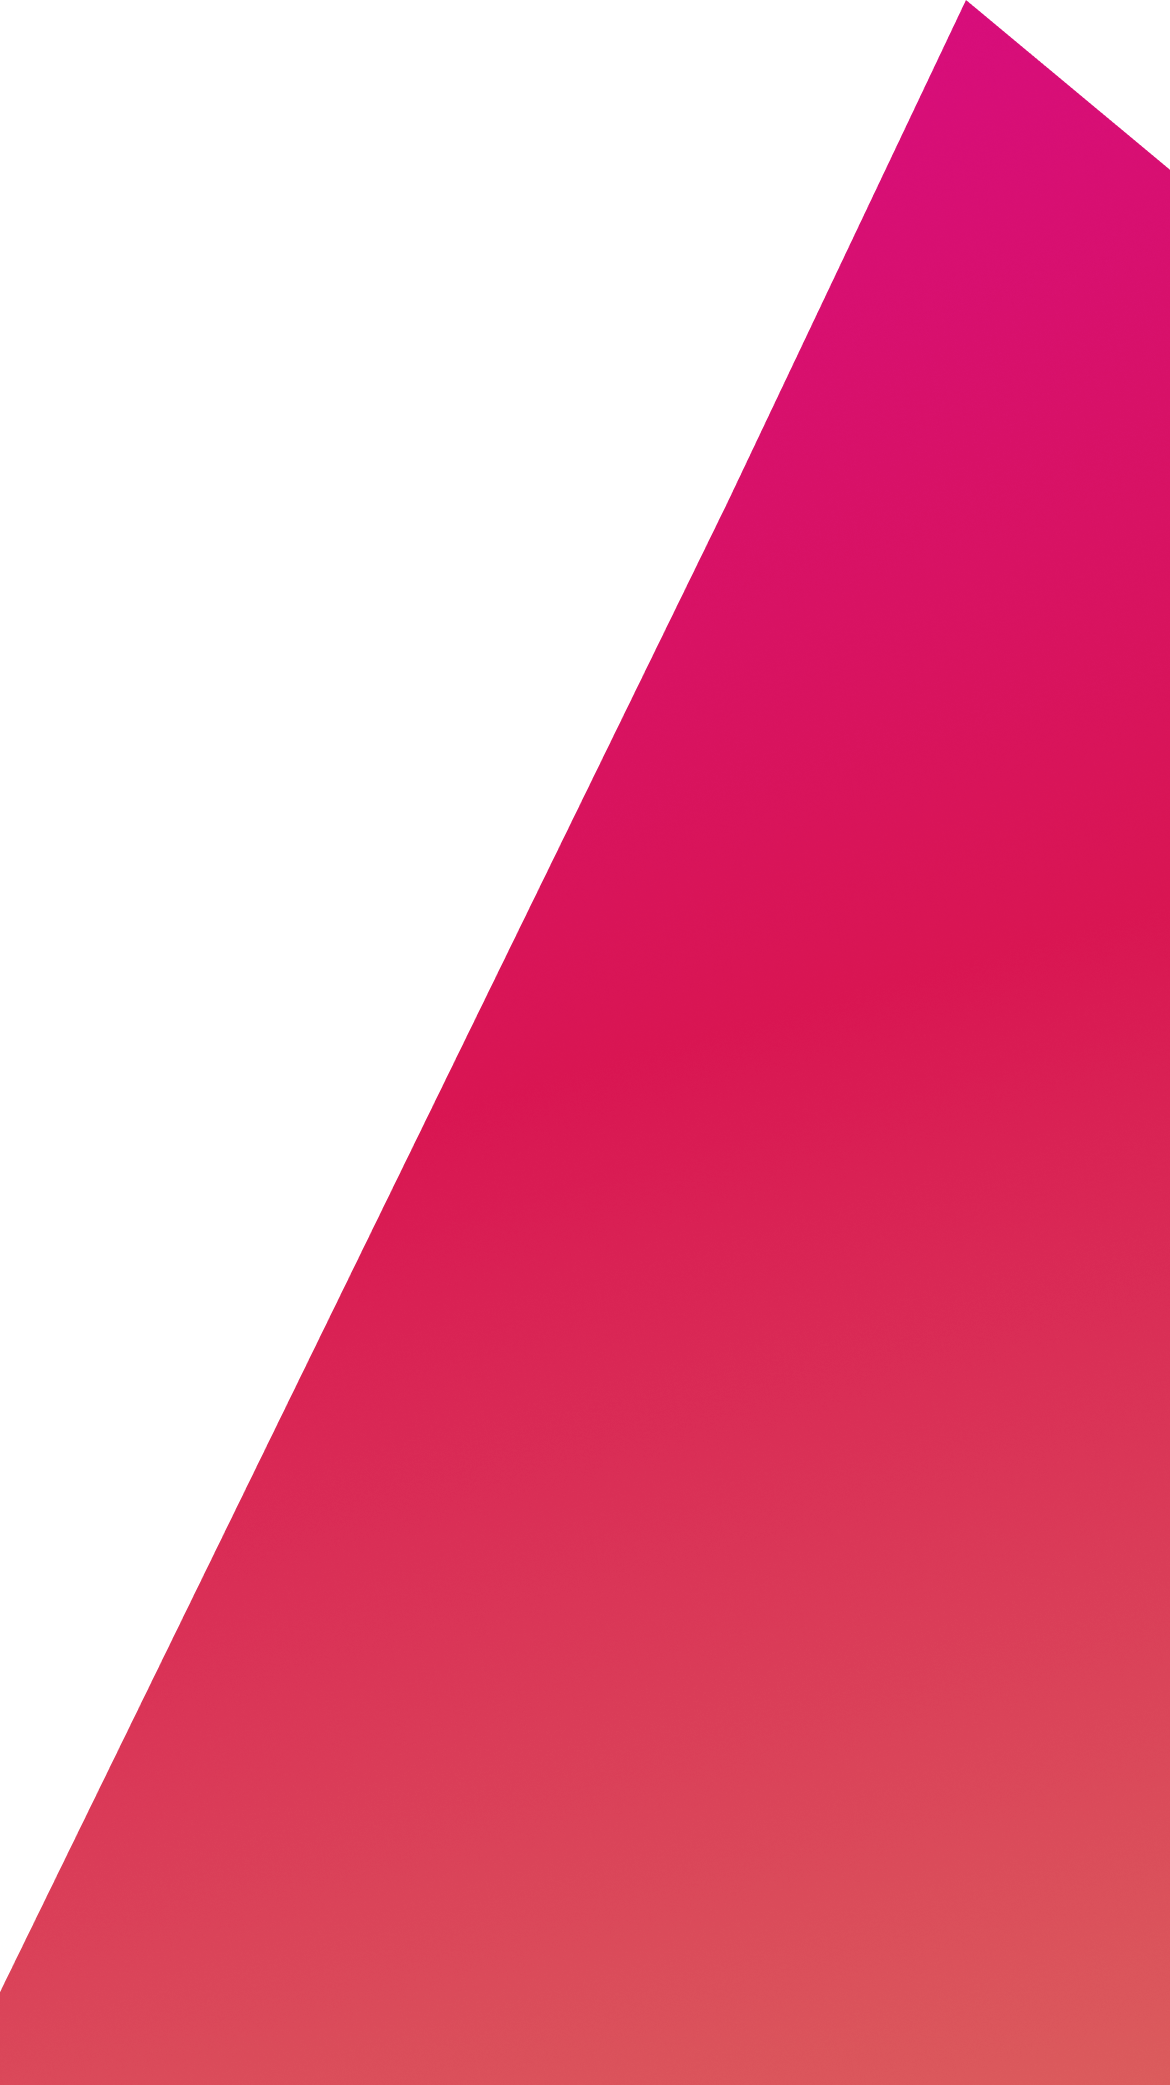
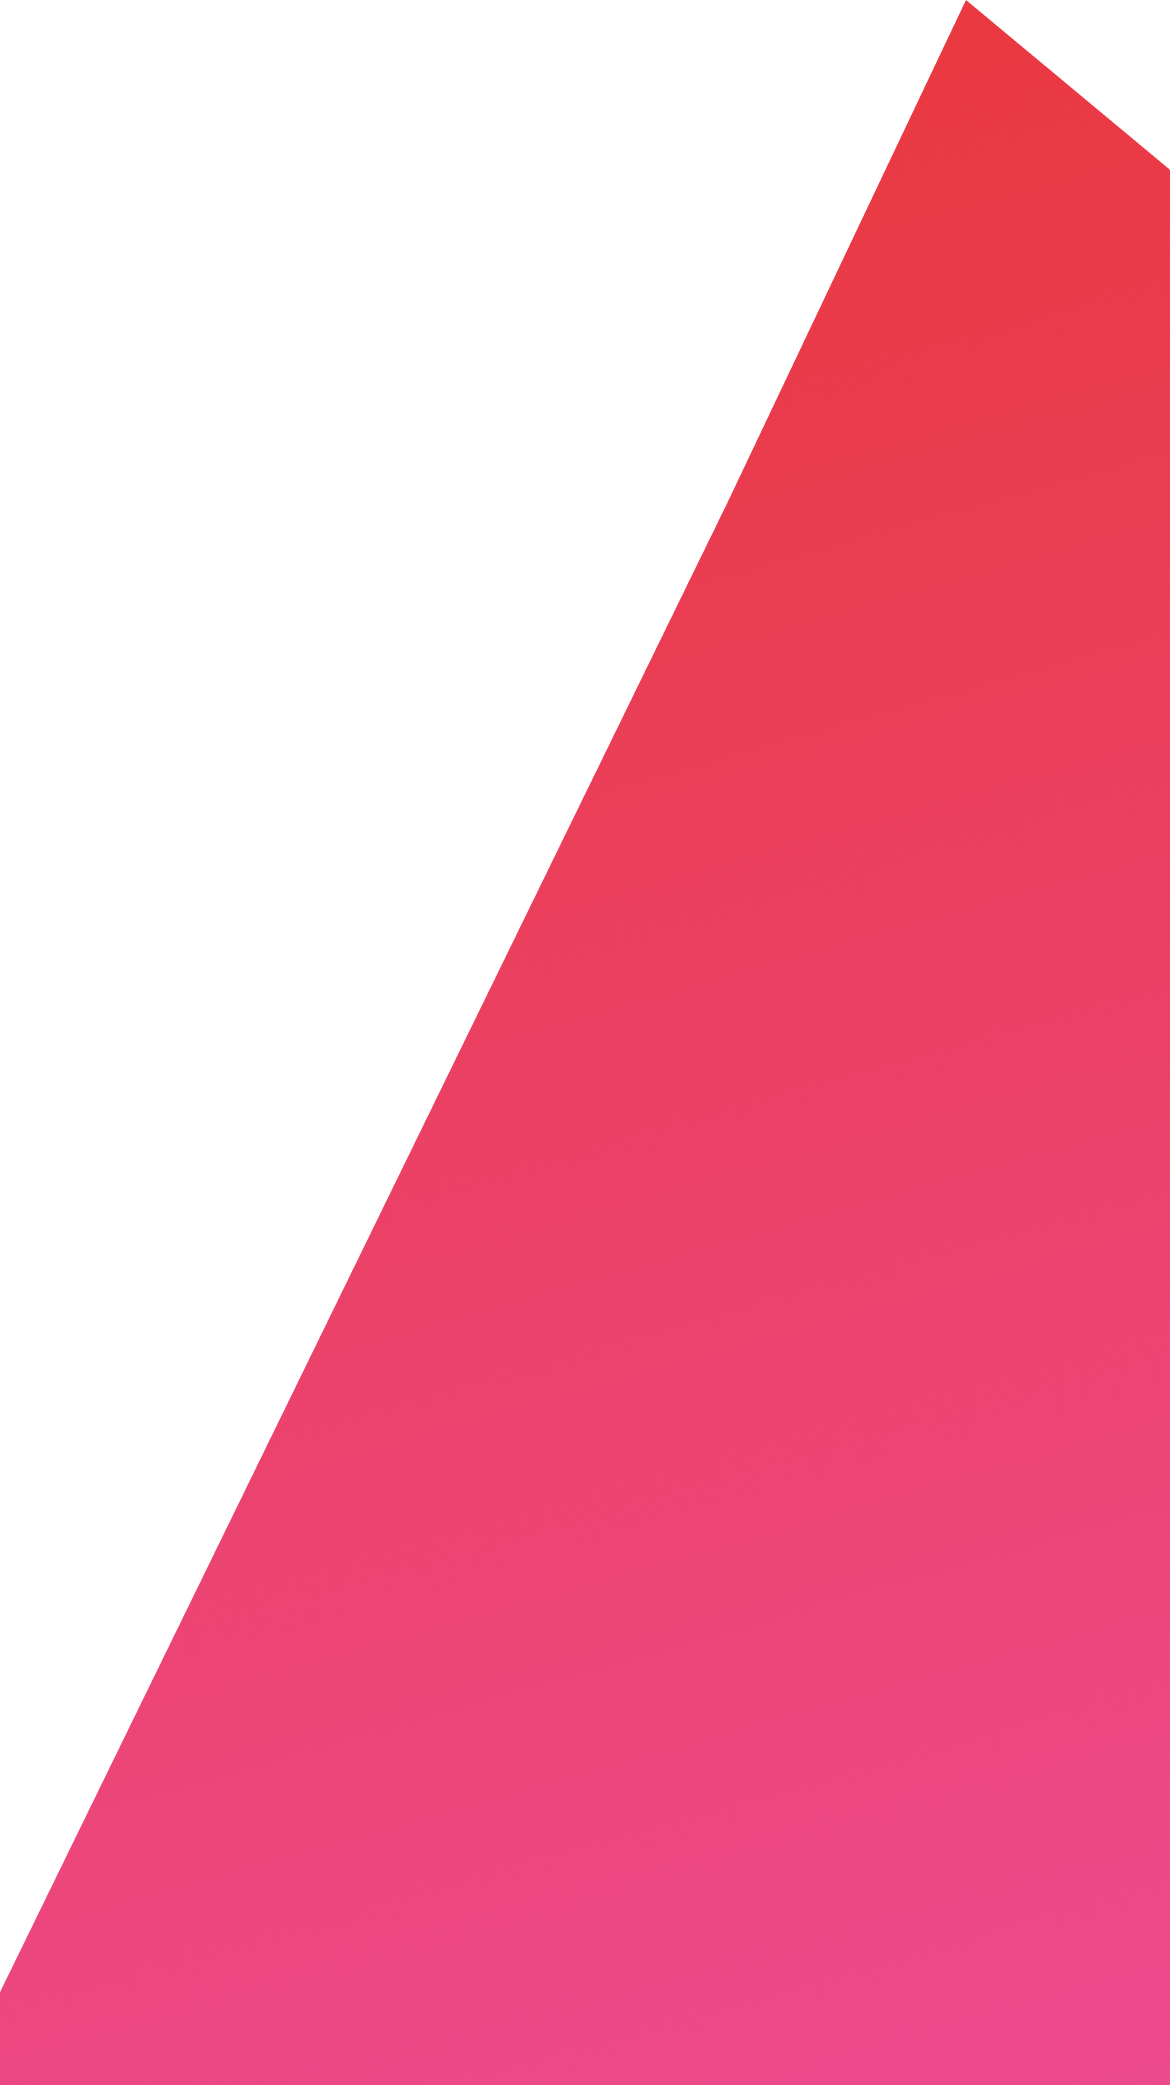
Finalização da home

diff --git a/src/atomic/molecules/Card.tsx b/src/atomic/molecules/Card.tsx
@@ -10,25 +10,43 @@ export function Card({
     price,
     model,
     title
-
 }: CardProps) {
-    return <TouchableOpacity 
-            style={{padding: 5, width: '50%' , height: 240, opacity: 0.9}} onPress={() => {}}>
-            <Box borderRadius="20px"
-                 p="4" flex="1" shadow="5" bg="primary.50:alpha.9"
-                 justifyContent="center"
-                 alignItems="center"
+    return (
+        <TouchableOpacity 
+            style={{ padding: 5, width: '50%', height: 240, opacity: 0.9 }} 
+            onPress={() => {}}
+        >
+            <Box 
+                borderRadius="20px"
+                p="4" 
+                flex="1" 
+                shadow="5" 
+                bg="primary.50:alpha.9"
+                justifyContent="center"
+                alignItems="center"
             >
-            <Box>
-                <Image src={image} width="121px" h="80px" alt="image" resizeMode="contain" />
+                <Box 
+                    justifyContent="center" 
+                    alignItems="center" 
+                    width="100%" 
+                    height="80px" 
+                >
+                    <Image 
+                        src={image} 
+                        width="121px" 
+                        height="80px" 
+                        alt="vinho" 
+                        resizeMode="contain" 
+                    />
+                </Box>
                 <Box mt="17px">
                     <TextAlpha50 text={title}></TextAlpha50>
-                    <Text fontSize="md" bold color="white">{model}</Text>
+                    <Text fontSize="md" bold color="white">
+                        {model}
+                    </Text>
                     <TextAlpha50 text={`R$ ${price}`}></TextAlpha50>
                 </Box>
             </Box>
-
-            </Box>
-
-    </TouchableOpacity>
+        </TouchableOpacity>
+    );
 }

diff --git a/src/atomic/organism/CategoryList.tsx b/src/atomic/organism/CategoryList.tsx
@@ -1,0 +1,49 @@
+import { Box, HStack, Image, Text } from "native-base";
+import React from "react";
+import { GradientSquareButton } from "../atoms/GradientSquareButton";
+import wineT from '../../img/img/categories/wineT.png'
+import wineB from '../../img/img/categories/wineB.png'
+import wineR from '../../img/img/categories/wineR.png'
+
+
+export function CategoryList() {
+    return (
+        <Box
+            mb="20px"
+            mt="5px"
+            width="100%"
+            alignSelf="center"
+            justifyContent="center" 
+        >
+            <HStack
+                justifyContent="center"
+                alignItems="center" 
+                width="100%" 
+            >
+                <Box >
+                    <GradientSquareButton isGradient>
+                        <Text color="white">All</Text>
+                    </GradientSquareButton>
+                </Box>
+
+                <Box ml="20px">
+                    <GradientSquareButton isGradient={false}>
+                        <Image source={wineT} alt="Vinho Tinto" size='7' />
+                    </GradientSquareButton>
+                </Box>
+
+                <Box ml="20px">
+                    <GradientSquareButton isGradient={false}>
+                        <Image source={wineB} alt="Vinho Branco" size='7' />
+                    </GradientSquareButton>
+                </Box>
+
+                <Box ml="20px">
+                    <GradientSquareButton isGradient={false}>
+                        <Image source={wineR} alt="Vinho Rosé" size='7' />
+                    </GradientSquareButton>
+                </Box>
+            </HStack>
+        </Box>
+    );
+}

diff --git a/src/atomic/molecules/MainBanner.tsx b/src/atomic/molecules/MainBanner.tsx
@@ -8,11 +8,28 @@ import wine from '../../img/img/WineBanner.png'
 
 
 export function MainBanner() {
-    return <Box w="100%" h="225" mt="60px" mb='25px'>
-        <ImageBackground source={slider} style={{flex: 1, justifyContent: 'center', alignItems: 'center'}} resizeMode="contain">
-            <Image source={wine} size="150"/>
-        </ImageBackground>
-        
-        
-    </Box>
+    return (
+        <Box 
+            w="100%" 
+            h="225px" 
+            mt="-3" 
+            mb="30px" 
+            display="flex" 
+            justifyContent="center" 
+            alignItems="center"
+        >
+            <ImageBackground
+                source={slider}
+                style={{
+                    width: '100%', 
+                    height: '100%', 
+                    justifyContent: 'center', 
+                    alignItems: 'center', 
+                }}
+                resizeMode="contain"
+            >
+                <Image source={wine} size="150" />
+            </ImageBackground>
+        </Box>
+    );
 }

diff --git a/src/Page/Home/index.tsx b/src/Page/Home/index.tsx
@@ -5,6 +5,8 @@ import { MainBanner } from "../../atomic/molecules/MainBanner";
 import { Card } from "../../atomic/molecules/Card";
 import api from "../../service/api";
 import { FlatList } from "react-native";
+import { Header } from "../../atomic/molecules/Header";
+import { CategoryList } from "../../atomic/organism/CategoryList";
 
 
 export type CardProps = {
@@ -36,7 +38,11 @@ export function Home(){
     return <Box flex='1' padding="20px" pt="-10px" position="relative" >
         <DetailBackground />
         <FlatList 
-            ListHeaderComponent={()=><MainBanner />}
+            ListHeaderComponent={()=><> 
+                <Header text='Choose Your Wine'/>
+                <MainBanner />
+                <CategoryList/>
+            </>}
             showsVerticalScrollIndicator={false}
             numColumns={2}
             keyExtractor={item=> item.id}

diff --git a/src/atomic/atoms/GradientSquareButton.tsx b/src/atomic/atoms/GradientSquareButton.tsx
@@ -1,0 +1,22 @@
+import { LinearGradient } from "expo-linear-gradient";
+import { Box, Center, useTheme } from "native-base";
+import React from "react";
+import { TouchableOpacity } from "react-native";
+import { Gradient } from "./GRadient";
+
+type Props = {
+    children: React.ReactNode
+    isGradient?: boolean
+}
+
+export function GradientSquareButton({ isGradient = true, children }: Props) {
+
+    const { colors } = useTheme()
+    return <TouchableOpacity >
+
+        <Center shadow="5" w="44px" borderRadius="10" h="44px" bg="primary.50:alpha.9">
+            {isGradient ? <Gradient>{children}</Gradient> : children}
+
+        </Center>
+    </TouchableOpacity>
+}

diff --git a/src/atomic/atoms/GRadient.tsx b/src/atomic/atoms/GRadient.tsx
@@ -1,0 +1,22 @@
+import { LinearGradient } from "expo-linear-gradient";
+import { useTheme } from "native-base";
+import React from "react";
+
+type Props = {
+    children: React.ReactNode
+    
+}
+
+export function Gradient({children}: Props){
+    const { colors } = useTheme()
+    
+    return <LinearGradient colors={[colors.ocean[50], colors.purple[100]]} style={{
+        width: 44, 
+        height: 44, 
+        justifyContent: 'center', 
+        alignItems: 'center', 
+        borderRadius: 10, 
+        boxShadow: '5px 5px 10px rgba(0, 0, 0, 0.2)',
+        padding: 12,
+    }}> {children}</LinearGradient>
+}

diff --git a/src/atomic/molecules/Header.tsx b/src/atomic/molecules/Header.tsx
@@ -1,0 +1,18 @@
+import { Box, Icon, Text } from "native-base";
+import React from "react";
+import { GradientSquareButton } from "../atoms/GradientSquareButton";
+import { AntDesign } from "@expo/vector-icons"
+
+
+type Props = {
+    text: string
+}
+export function Header({text}: Props){
+    return <Box h="100px" alignItems="center" p='3'mt='5' flexDirection="row" justifyContent="space-between">
+        <Text fontSize="lg" fontWeight="bold" color="white" >{text}</Text>
+
+        <GradientSquareButton>
+            <Icon  as={AntDesign} name="search1" color="white" />
+        </GradientSquareButton>
+    </Box>
+}

diff --git a/src/styles/theme/index.tsx b/src/styles/theme/index.tsx
@@ -10,14 +10,14 @@ export const theme = extendTheme({
         200: '#222834',
       },
       ocean: {
-        50: '#d3124f',
-        100: '#9e0031',
-        200: '#8e0045',
+        50: '#E9373A',
+        100: '#D83A7F',
+        200: '#ED4B91',
       },
       
       purple: {
         50: '#770058',
-        100 : '#600047'
+        100 : '#4E4AF2'
       }
     },
 
